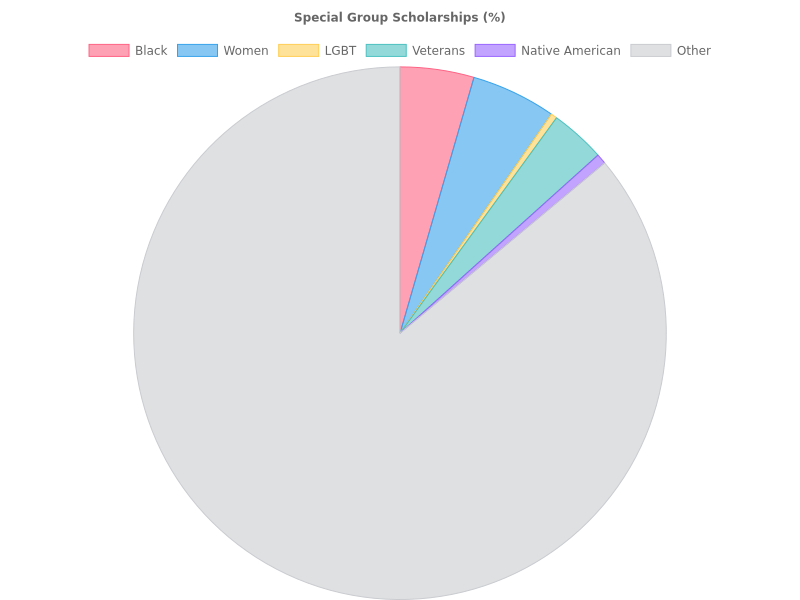
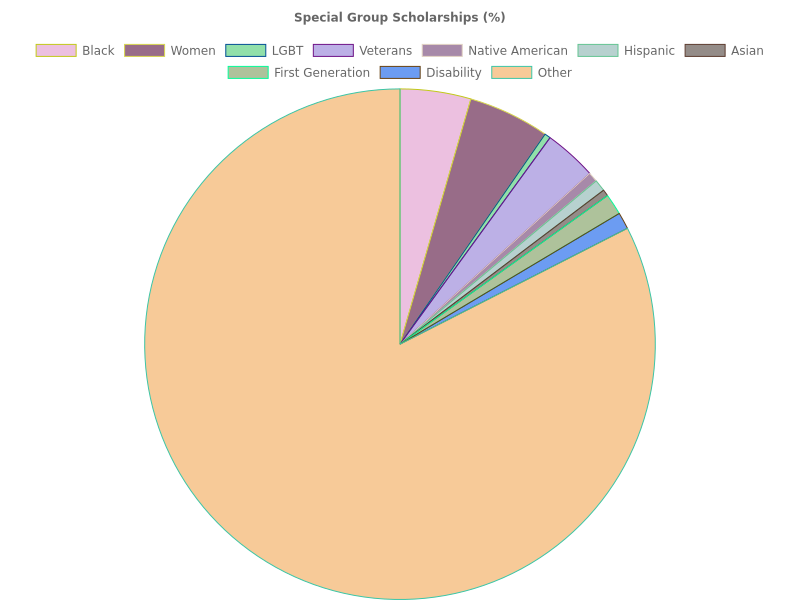
Sync

diff --git a/parseData.js b/parseData.js
@@ -1,5 +1,6 @@
 const fs = require('fs');
 const { ChartJSNodeCanvas } = require('chartjs-node-canvas');
+const getRandomColors = require('./modules/getRandomColors');
 
 (async () => {
   try {
@@ -10,7 +11,11 @@ const { ChartJSNodeCanvas } = require('chartjs-node-canvas');
       { type: 'Women', keywords: ['women only', 'for women', 'female', 'women'] },
       { type: 'LGBT', keywords: ['lgbtqia', 'lgbtq+', 'lgbt', 'lgbtq'] },
       { type: 'Veterans', keywords: ['veteran', 'military', 'armed forces'] },
-      { type: 'Native American', keywords: ['native american', 'indigenous', 'tribal'] }
+      { type: 'Native American', keywords: ['native american', 'indigenous', 'tribal'] },
+      { type: 'Hispanic', keywords: ['hispanic', 'latino', 'latina', 'latinx'] },
+      { type: 'Asian', keywords: ['asian', 'pacific islander', 'south asian', 'east asian'] },
+      { type: 'First Generation', keywords: ['first generation', 'first-gen', 'low-income'] },
+      { type: 'Disability', keywords: ['disability', 'disabled', 'handicap', 'special needs'] },
     ];
     
     function matchesCategory(scholarship, categoryKeywords) {
@@ -68,11 +73,16 @@ const { ChartJSNodeCanvas } = require('chartjs-node-canvas');
       console.log(`${category.type}: ${category.percentage}% of scholarships (${category.count} total), ${category.needBasedPercentage}% need-based`);
     });
     console.log(`\nOverall Need-Based Scholarships: ${overallNeedBasedPercentage}% of all scholarships (${overallNeedBasedCount} out of ${total})`);
+    
     const width = 800;
     const height = 600;
     const chartJSNodeCanvas = new ChartJSNodeCanvas({ width, height });
+    if (!fs.existsSync('./images')) fs.mkdirSync('./images', { recursive: true });
+    
     const labels = output.map(cat => cat.type);
     const dataPercentages = output.map(cat => parseFloat(cat.percentage));
+    const backgroundColorsSpecial = getRandomColors(labels.length, 0.6);
+    const borderColorsSpecial = getRandomColors(labels.length, 1);
     const configSpecialGroups = {
       type: 'pie',
       data: {
@@ -80,68 +90,98 @@ const { ChartJSNodeCanvas } = require('chartjs-node-canvas');
         datasets: [{
           label: 'Percentage of Scholarships',
           data: dataPercentages,
-          backgroundColor: [
-            'rgba(255, 99, 132, 0.6)',
-            'rgba(54, 162, 235, 0.6)',
-            'rgba(255, 206, 86, 0.6)',
-            'rgba(75, 192, 192, 0.6)',
-            'rgba(153, 102, 255, 0.6)',
-            'rgba(201, 203, 207, 0.6)'
-          ],
-          borderColor: [
-            'rgba(255, 99, 132, 1)',
-            'rgba(54, 162, 235, 1)',
-            'rgba(255, 206, 86, 1)',
-            'rgba(75, 192, 192, 1)',
-            'rgba(153, 102, 255, 1)',
-            'rgba(201, 203, 207, 1)'
-          ],
+          backgroundColor: backgroundColorsSpecial,
+          borderColor: borderColorsSpecial,
           borderWidth: 1
         }]
       },
       options: {
         plugins: {
-          title: {
-            display: true,
-            text: 'Special Group Scholarships (%)'
-          }
+          title: { display: true, text: 'Special Group Scholarships (%)' }
         }
       }
     };
-    if (!fs.existsSync('./images')) fs.mkdirSync('./images', { recursive: true });
+    
     const imageBufferSpecial = await chartJSNodeCanvas.renderToBuffer(configSpecialGroups);
     fs.writeFileSync('./images/special_groups_pie_chart.png', imageBufferSpecial);
+    
     const needBasedCount = overallNeedBasedCount;
     const meritBasedCount = total - overallNeedBasedCount;
+    const labelsNeedBased = ['Need-based', 'Merit-based'];
+    const backgroundColorsNeedBased = getRandomColors(labelsNeedBased.length, 0.6);
+    const borderColorsNeedBased = getRandomColors(labelsNeedBased.length, 1);
     const configNeedBased = {
       type: 'pie',
       data: {
-        labels: ['Need-based', 'Merit-based'],
+        labels: labelsNeedBased,
         datasets: [{
           label: 'Scholarship Type',
           data: [needBasedCount, meritBasedCount],
-          backgroundColor: [
-            'rgba(75, 192, 192, 0.6)',
-            'rgba(255, 159, 64, 0.6)'
-          ],
-          borderColor: [
-            'rgba(75, 192, 192, 1)',
-            'rgba(255, 159, 64, 1)'
-          ],
+          backgroundColor: backgroundColorsNeedBased,
+          borderColor: borderColorsNeedBased,
           borderWidth: 1
         }]
       },
       options: {
         plugins: {
-          title: {
-            display: true,
-            text: 'Need-based vs Merit-based Scholarships'
-          }
+          title: { display: true, text: 'Need-based vs Merit-based Scholarships' }
         }
       }
     };
+    
     const imageBufferNeedBased = await chartJSNodeCanvas.renderToBuffer(configNeedBased);
     fs.writeFileSync('./images/need_based_vs_merit_pie_chart.png', imageBufferNeedBased);
+    
+    const validScholarships = scholarships.filter(s => s.scholarshipMaximumAward !== null && !isNaN(s.scholarshipMaximumAward));
+    const sum = validScholarships.reduce((acc, s) => acc + Number(s.scholarshipMaximumAward), 0);
+    const avg = validScholarships.length > 0 ? sum / validScholarships.length : 0;
+    if (validScholarships.length > 0) {
+      console.log(`Average Scholarship Maximum Award: ${Math.round(avg)}$`);
+    } else {
+      console.log("No valid scholarshipMaximumAward values.");
+    }
+  
+    if (validScholarships.length > 0) {
+      let awards = validScholarships.map(s => Number(s.scholarshipMaximumAward));
+      let minAward = Math.min(...awards);
+      let maxAward = Math.max(...awards);
+      const numBins = 10;
+      let binWidth = (maxAward - minAward) / numBins;
+      if (binWidth === 0) { binWidth = 1; }
+      let bins = new Array(numBins).fill(0);
+      let binLabels = [];
+      for (let i = 0; i < numBins; i++) {
+        let binStart = minAward + i * binWidth;
+        let binEnd = minAward + (i + 1) * binWidth;
+        binLabels.push(`${binStart.toFixed(0)} - ${binEnd.toFixed(0)}`);
+      }
+      for (let award of awards) {
+        let index = Math.floor((award - minAward) / binWidth);
+        if (index >= numBins) index = numBins - 1;
+        bins[index]++;
+      }
+      const configHistogram = {
+        type: 'bar',
+        data: {
+          labels: binLabels,
+          datasets: [{
+            label: 'Count of Scholarships',
+            data: bins,
+            backgroundColor: 'rgba(153, 102, 255, 0.6)',
+            borderColor: 'rgba(153, 102, 255, 1)',
+            borderWidth: 1
+          }]
+        },
+        options: {
+          scales: { y: { beginAtZero: true } },
+          plugins: { title: { display: true, text: 'Distribution of Scholarship Maximum Awards' } }
+        }
+      };
+      const imageBufferHistogram = await chartJSNodeCanvas.renderToBuffer(configHistogram);
+      fs.writeFileSync('./images/scholarship_awards_histogram_bar_chart.png', imageBufferHistogram);
+    } else {
+      console.log('No valid scholarshipMaximumAward values to generate histogram.');
+    }
   } catch (error) {
     console.error(error);
   }

diff --git a/modules/randomRGBA.js b/modules/randomRGBA.js
@@ -1,0 +1,9 @@
+function randomRGBA(alpha = 1) {
+    const r = Math.floor(Math.random() * 256);
+    const g = Math.floor(Math.random() * 256);
+    const b = Math.floor(Math.random() * 256);
+    return `rgba(${r}, ${g}, ${b}, ${alpha})`;
+  }
+  
+  module.exports = randomRGBA;
+  

diff --git a/modules/getRandomColors.js b/modules/getRandomColors.js
@@ -1,0 +1,11 @@
+const randomRGBA = require('./randomRGBA');
+
+function getRandomColors(count, alpha) {
+  const colors = [];
+  for (let i = 0; i < count; i++) {
+    colors.push(randomRGBA(alpha));
+  }
+  return colors;
+}
+
+module.exports = getRandomColors;

diff --git a/README.md b/README.md
@@ -14,5 +14,9 @@ Women: 5.14% of scholarships (514 total), 44.55% need-based
 LGBT: 0.38% of scholarships (38 total), 28.95% need-based
 Veterans: 3.34% of scholarships (334 total), 31.14% need-based
 Native American: 0.61% of scholarships (61 total), 49.18% need-based
-Other: 86.05% of scholarships (8605 total), 37.02% need-based`
+Other: 86.05% of scholarships (8605 total), 37.02% need-based
+
+Overall Need-Based Scholarships: 37.40% of all scholarships (3740 out of 10000)
+Average Scholarship Maximum Award: $2914
 ``` 
+
